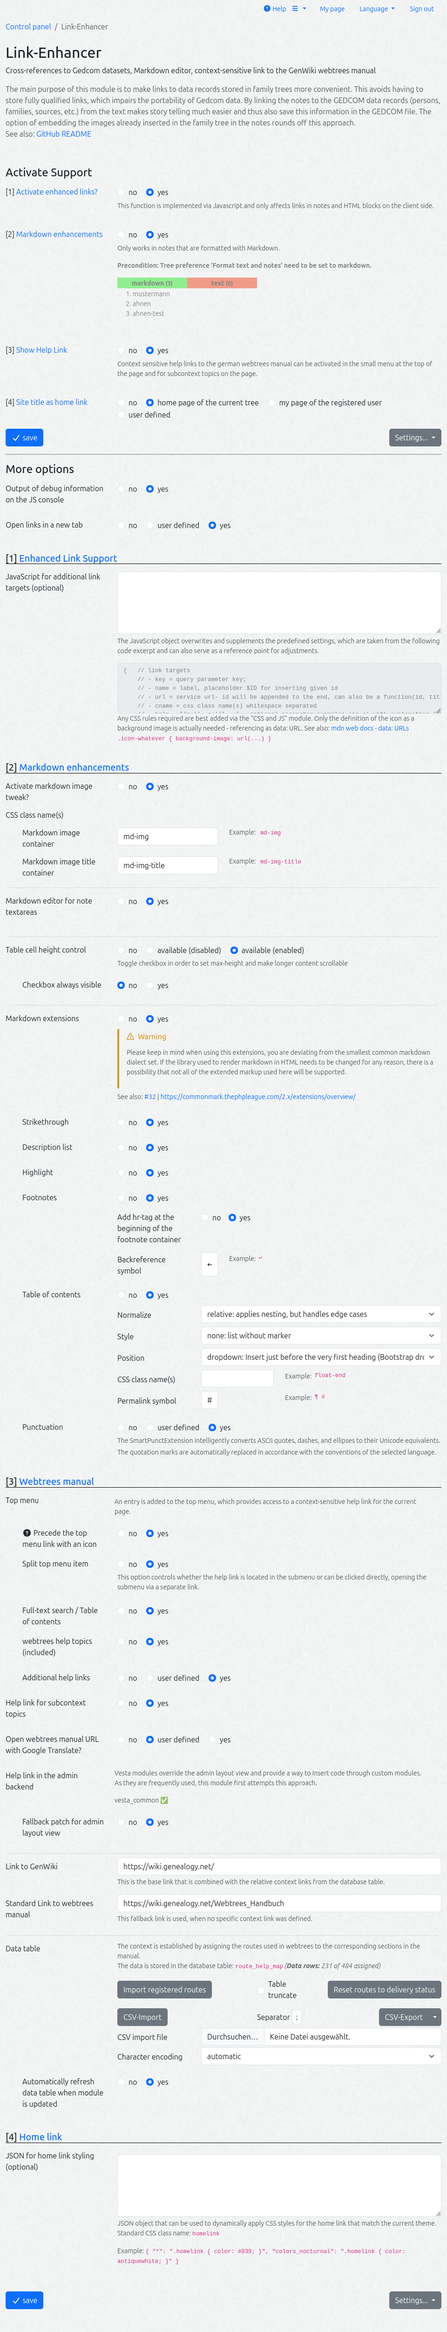
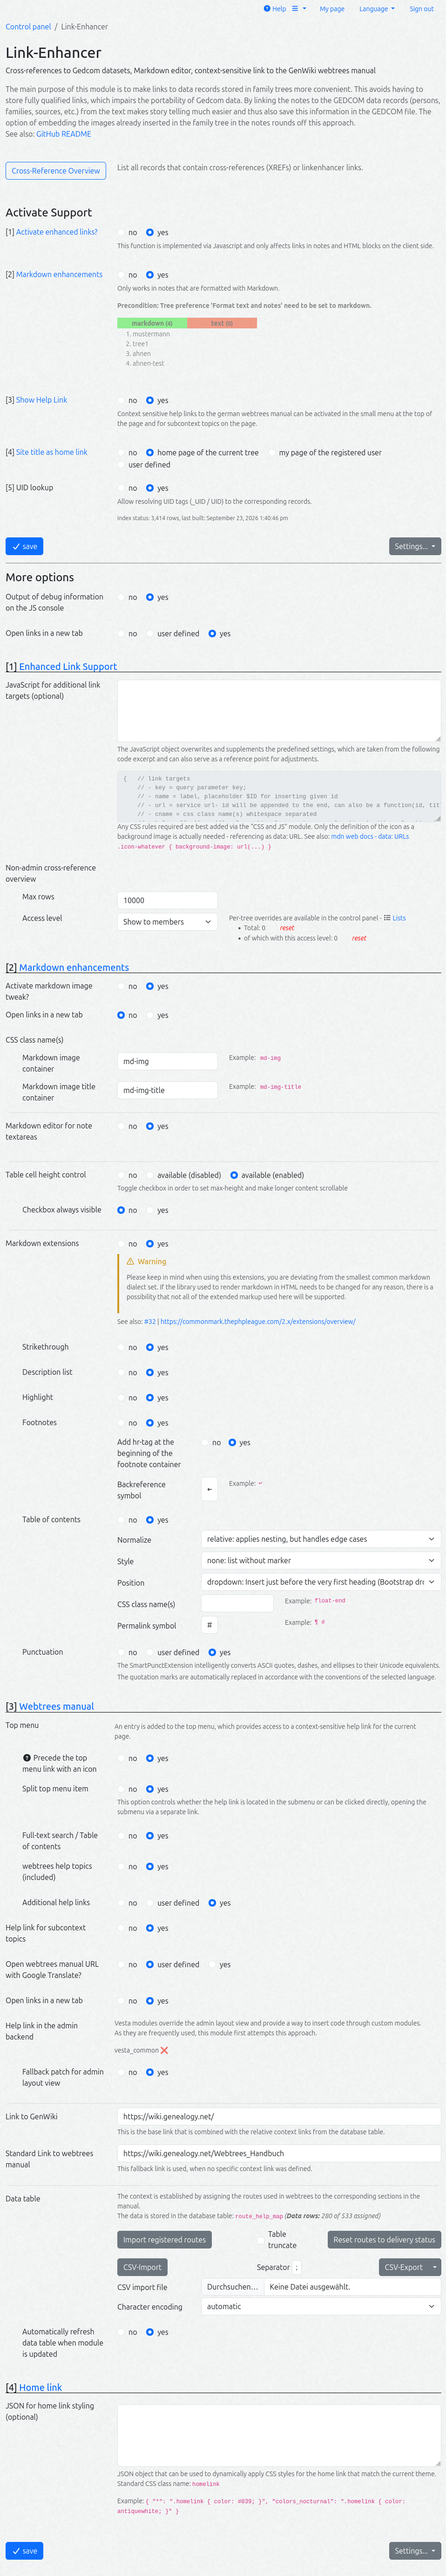
documentation

diff --git a/README.md b/README.md
@@ -40,7 +40,7 @@ This module wraps up some [examples mentioned in the German Webtrees Manual](htt
 
 The main purpose of this module is to make [**links to data records**](#enhancedlinks) stored in family trees more convenient. This avoids having to store fully qualified links, which impairs the portability of Gedcom data. By linking the notes to the GEDCOM data records (persons, families, sources, etc.) from the text makes story telling much easier and thus also save this information in the GEDCOM file (maybe this is an alternative for the [stories module](https://wiki.genealogy.net/Webtrees_Handbuch/Anleitung_f%C3%BCr_Besucher#Geschichten)). The option of embedding the [**images**](#mdimg) already inserted in the family tree in the notes rounds off this approach. The link function is controlled via the [anchor part of the URI](https://developer.mozilla.org/en-US/docs/Learn_web_development/Howto/Web_mechanics/What_is_a_URL), so it's no problem, if this module is not active - the url just points to the current webtrees page.
 
-For the admin there is an [**overview of cross-references**](#xref-overview), that lists all GEDCOM records and html based records stored in the `block / block_setting` tables (like html, faq, stories and vesta classig look and feel badges) which contain linkenhancer cross-references, classic cross-references and embedded picture references. The latter two references are only supported in GEDCOM records.
+For the admin there is an [**overview of cross-references**](#xref-overview), that lists all GEDCOM records and html based records stored in the `block / block_setting` tables (like html, faq, stories and vesta classig look and feel badges) which contain linkenhancer cross-references, classic cross-references and embedded picture references. The latter two references are only supported in GEDCOM records. For a configurable user access level, an overview can be provided for each tree.
 
 Additionally there are some goodies more or less related with links:
 
@@ -150,7 +150,7 @@ For example: `.icon-whatever { background-image: url(...) }`
 <a name="uid-lookup"></a>
 ### UID lookup
 
-A **UID** (`_UID` in GEDCOM 5.5.1, `UID` in GEDCOM 7.0) is a persistent identifier assigned to a record by external software (e.g. a GEDCOM import from Ancestry, MyHeritage, or a research tool). The UID survives XREF renumbering and tree migrations, making it a stable reference point.
+A **UID** (`_UID` in GEDCOM 5.5.1, `UID` in GEDCOM 7.0) is a persistent identifier assigned to a record. The UID survives XREF renumbering and tree migrations, making it a stable reference point.
 
 This feature allows navigating directly to a record by its UID. The URL pattern is:
 
